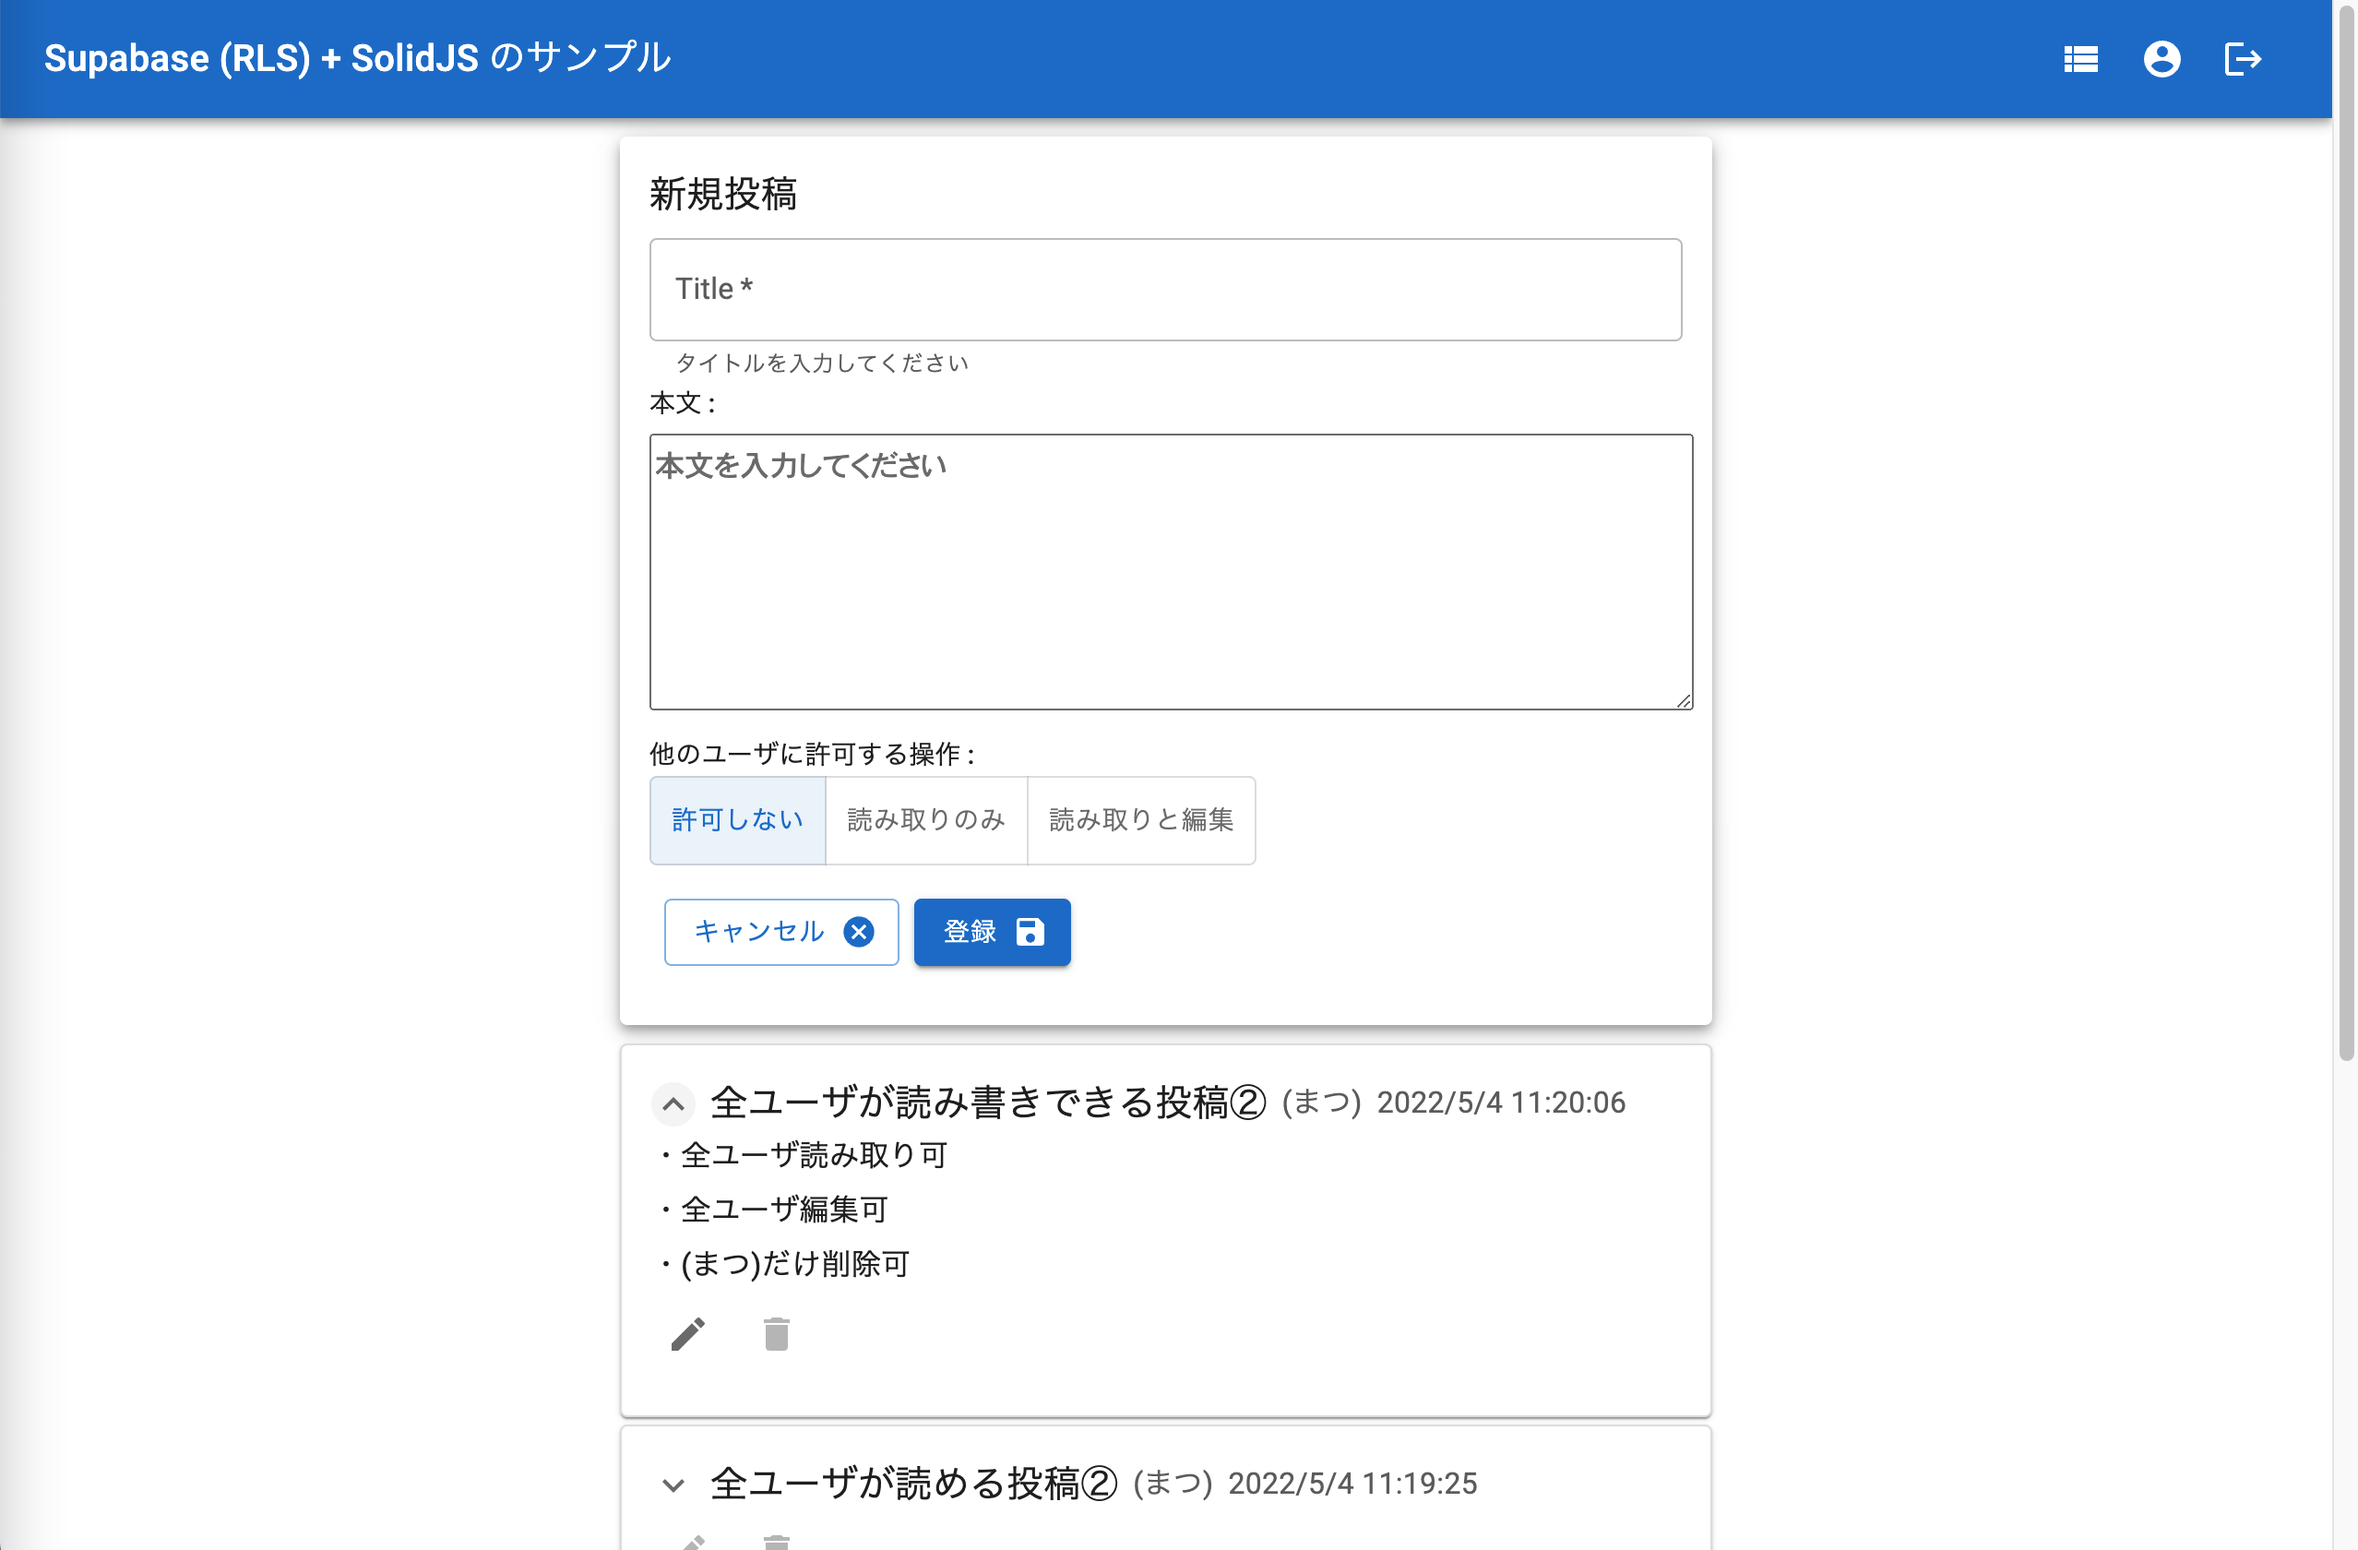
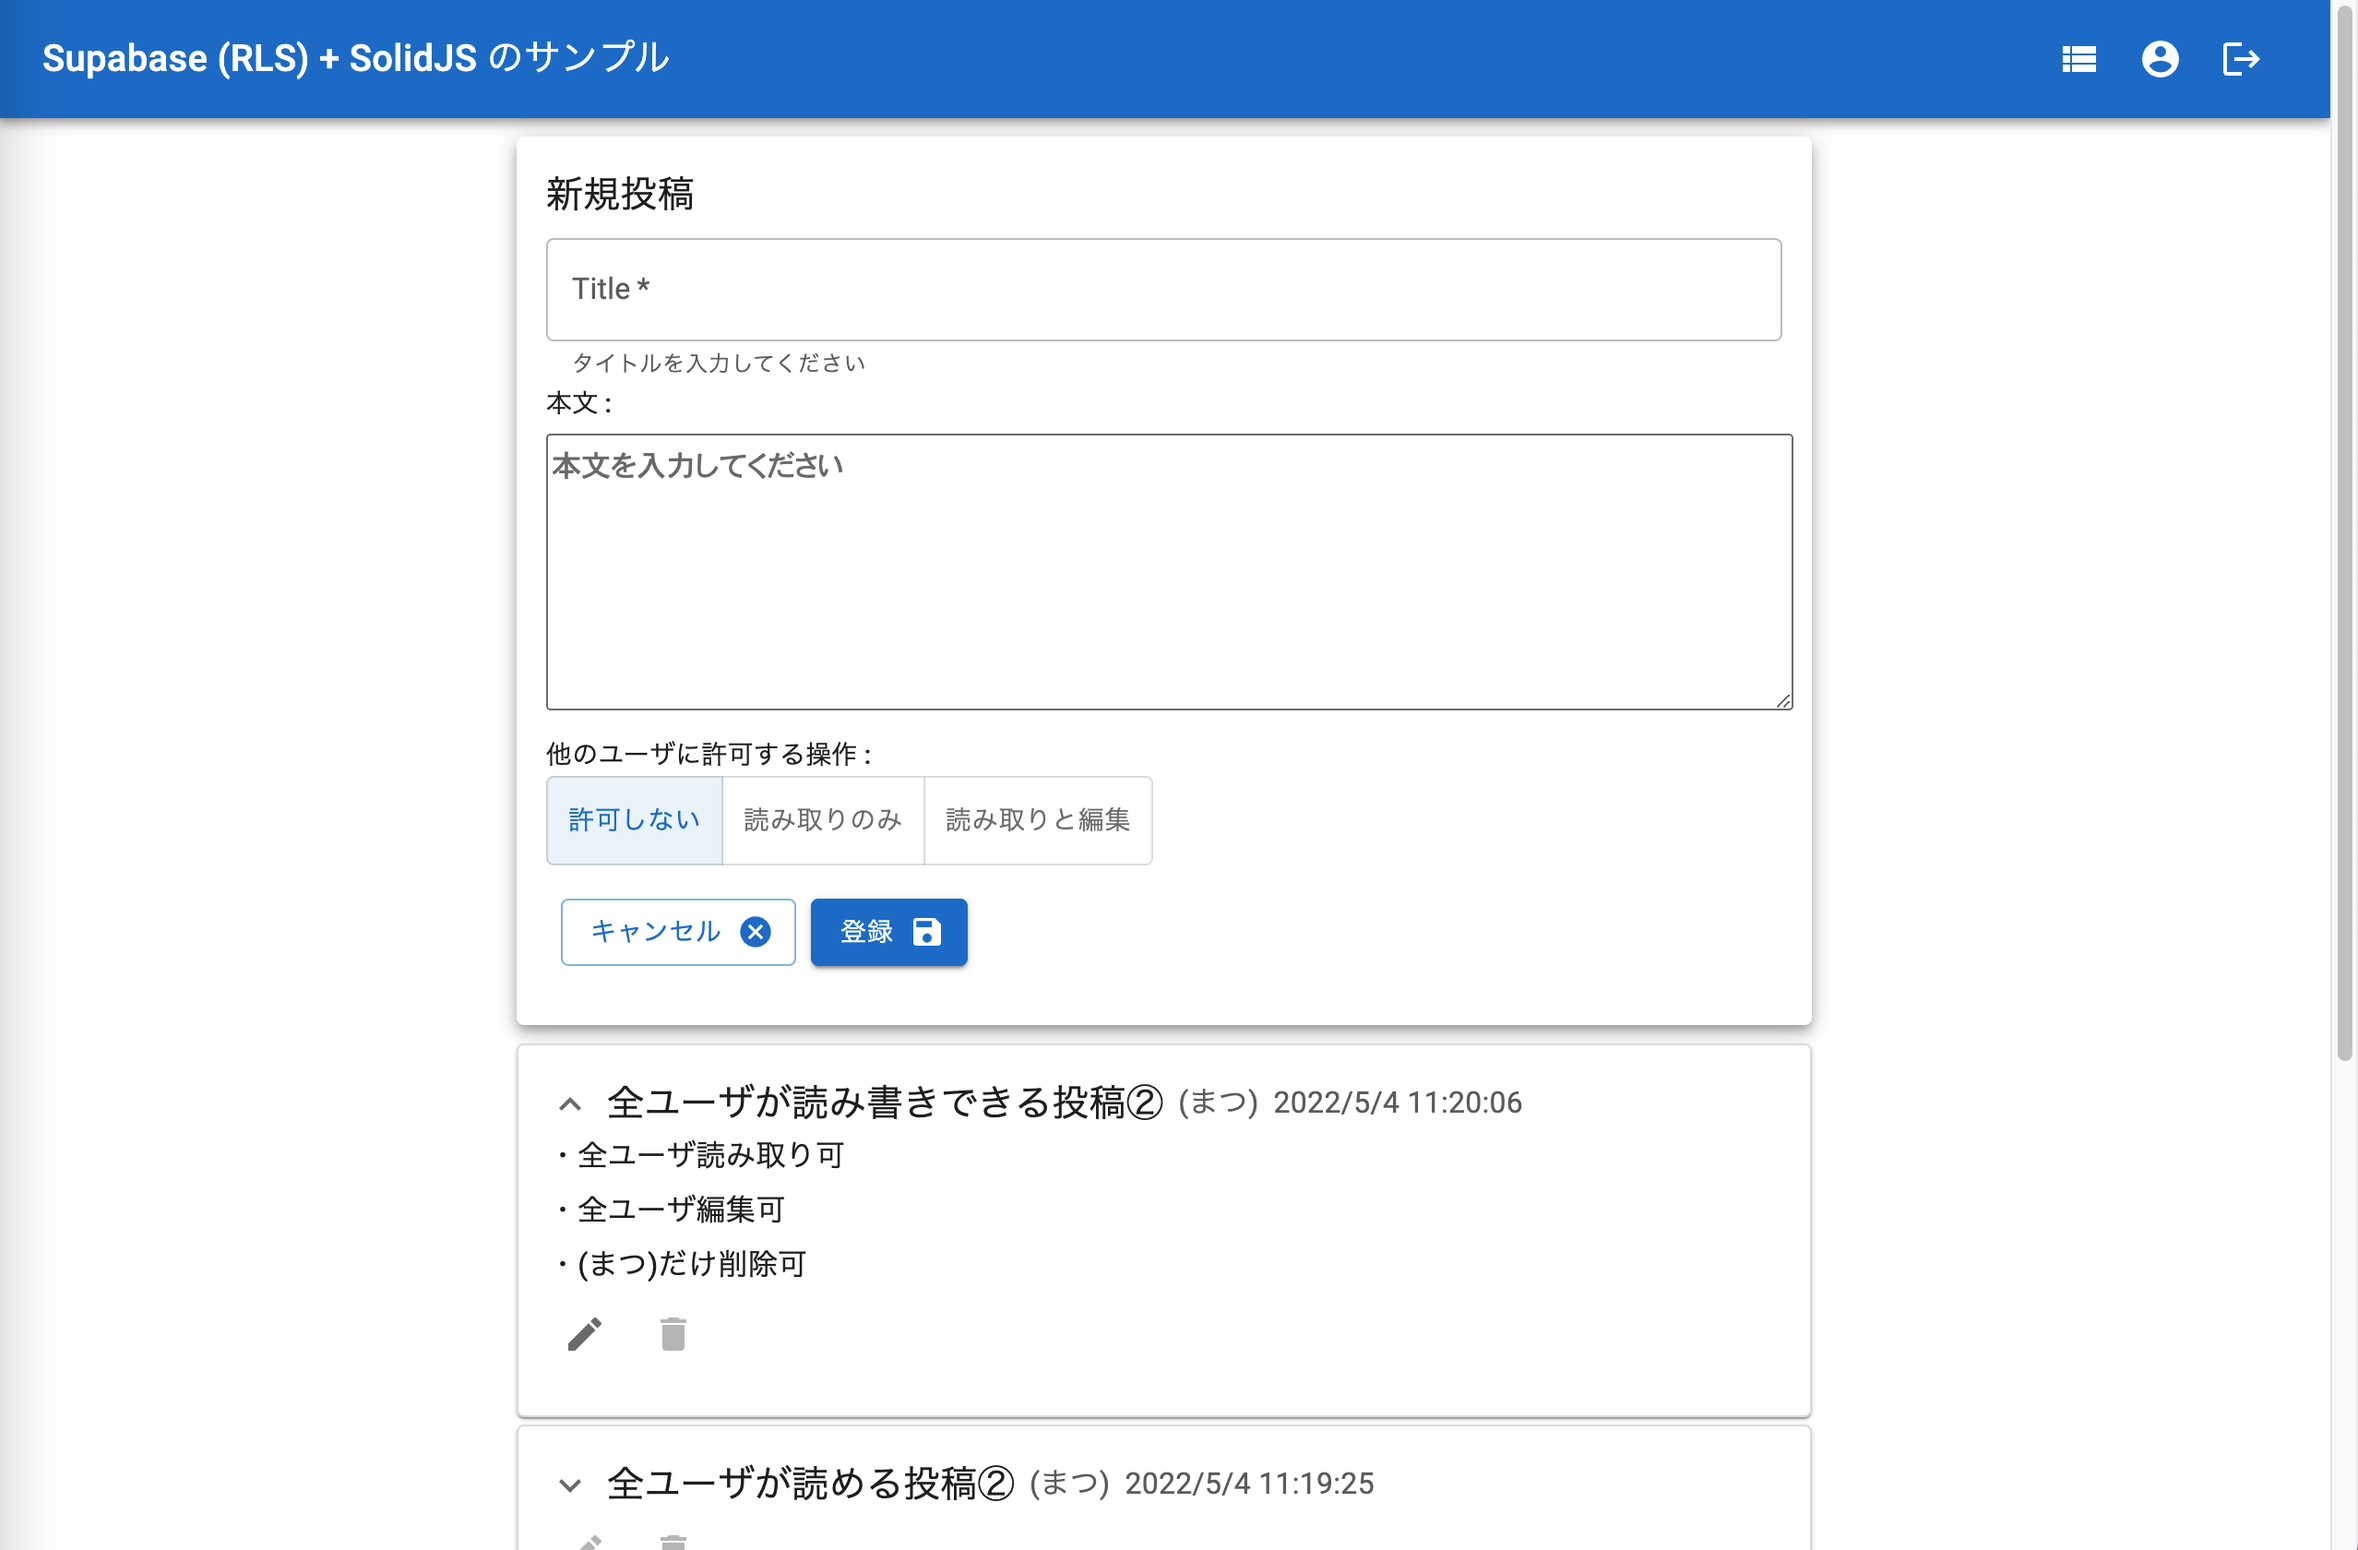
画面キャプチャを最新のものに入れ替え

diff --git a/articles/solidjs-suid-sample.md b/articles/solidjs-suid-sample.md
@@ -191,7 +191,7 @@ SUID では現状[`TextareaAutosize`](https://mui.com/material-ui/react-textarea
 
 #### `Collapse`API に対応していない
 
-React 用 MUI にある [Collapse API](https://mui.com/material-ui/api/collapse/) に対応していないため、上に記したコードでも SolidJS 自体が持つ [Show API](https://www.solidjs.com/docs/latest/api#%3Cshow%3E) を使って類似の処理をしています。
+React 用 MUI にある [Collapse API](https://mui.com/material-ui/api/collapse/) に対応していないため、上に記したコードでも SolidJS 自体が持つ [Show API](https://www.solidjs.com/docs/latest/api#%3Cshow%3E) を使って類似の処理をしています（Collapse API とは違いアニメーション動作はしません）。
 
 ```tsx:ViewItem.tsx（48行目〜：展開ボタン部分）
   <Switch fallback={<></>}>
